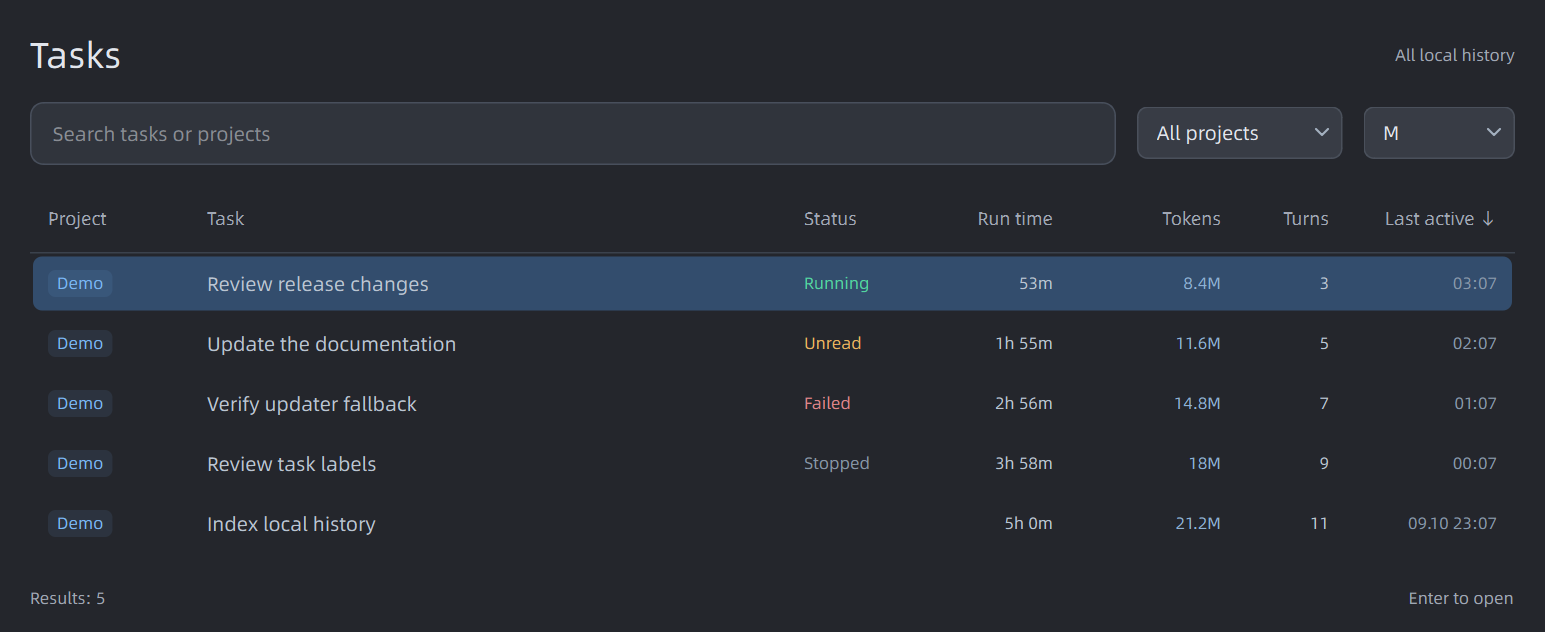
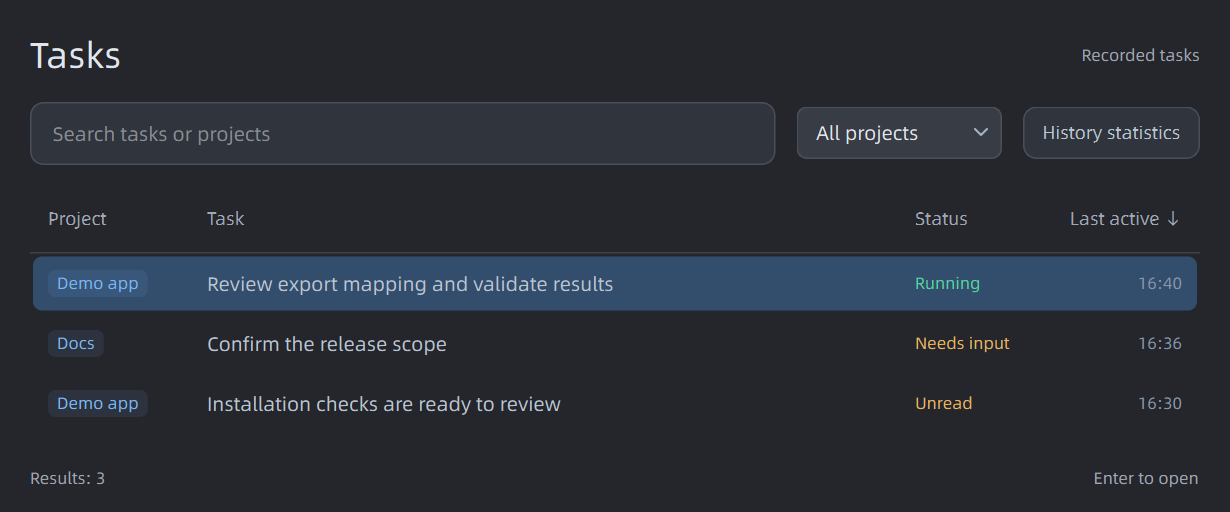
docs(product): document clear quota controls and verified desktop flows
Update all localized guides and synthetic screenshots for separate task controls, progressive history statistics, quota source/freshness context and complete-width placement. Record local regression, upgrade, uninstall/data-preservation and installed-window evidence with explicit hardware and participant-study limits.

Add the portable quota-validity suite to regular CI and provide a ready-to-run usability protocol without claiming participant results.

Spec: docs/specs/product-clarity.md#5-verification-and-delivery

diff --git a/README.md b/README.md
@@ -18,9 +18,9 @@ Requires **Windows 11 x64** and the **Codex desktop app**, installed and signed 
 2. Run the installer, then start the app. Python, Qt, and fonts are included. Administrator access is not required.
 3. Right-click the strip to open Settings. Choose which items to show and whether to start at sign-in.
 
-The strip sits on the left of the primary taskbar. If there is not enough space, open Settings from the system tray. Updates are checked on GitHub; installation starts only when you choose it.
+New installations use **Auto** placement: prefer the primary taskbar and float when there is not enough room. Existing placement preferences are preserved. Right-click either strip or the tray for **Find task…**, **Task status**, Settings and Quit. Updates are checked on GitHub; installation starts only when you choose it.
 
-Choose **Placement → Floating** in Settings to move the capsule away from the taskbar. Drag it to a convenient position; that position is remembered. **Keep on top** is optional, and panels open above or below it to fit the screen. Switch back to **Taskbar** at any time.
+Choose **Status bar placement → Floating** to move the quota/status strip. The optional **Running task strip** is independent: drag it to a convenient position and that position is remembered. **Keep floating windows on top** applies to enabled floating windows; colors and transparency apply to both strips.
 
 **Auto** prefers the primary taskbar and uses a floating capsule when there is not enough room. It waits for stable availability before switching back and avoids automatic overlays over fullscreen foreground apps. **Floating display** can follow primary or pin a display; disconnecting it temporarily uses primary, and reconnecting restores the saved relative position. This does not add secondary-taskbar embedding or claim validation on other Windows versions.
 
@@ -39,17 +39,17 @@ Choose **Placement → Floating** in Settings to move the capsule away from the 
 | Status dot and count | Tasks in that state, with the current or latest turn's duration |
 | Task title | That task in Codex |
 
-Running tasks rotate in the strip. Hovering pauses rotation and scrolls long titles. Main tasks and Side chats have separate counts, states and timers: a running main task can appear alongside an unread side result. Side entries return to their parent task. Stopped and failed tasks have their own indicators.
+Enable **Running task strip** in Indicators to see a separate 420-DIP title carousel. It is off by default for new users; existing display choices are preserved on upgrade. **Task status counts** remains an independent control on the original strip. Hovering pauses task rotation and reveals long titles; empty Running lists hide the title strip. Main/Side markers appear only in live task surfaces; Side entries return to the parent task and do not add duplicate statistics/search rows. Running markers are static; motion is reserved for interactions and deliberate long-title reading.
 
 Settings include English, Simplified Chinese, Japanese, and Spanish UI selection, optional hover-to-open panels, and optional quota rotation. With rotation enabled, all enabled left-side indicators, including the reset countdown, share one fixed-width position.
 
 Capsule colors and background transparency are set manually in Settings. Choose Dark or Light; 0% transparency gives a solid background. Text and ring opacity are unaffected.
 
-The capsule fits its content up to the original maximum width. It reserves room for the longest rotating task, so switching tasks does not make it jump in size.
+The status strip fits the actual enabled labels and counts within the available screen/taskbar space. It does not silently hide selected indicators or change quota-rotation preferences. If complete content cannot fit, task categories remain available in the tray/context menu. The separate task strip keeps a stable width during rotation.
 
 Right-click and choose **Find task…** to search recorded tasks by title or project. Filter to one project, then click a result or use the arrow keys and Enter to return to it in Codex. This filter affects the search window only; quota and strip counts keep their existing scope.
 
-Task search also shows local lifetime **run time, tokens and execution turns**. Click a column heading to sort; click again to reverse it. The first history scan runs in small batches while the window is open, then resumes from a cache. Run time includes waits within a turn and excludes gaps between turns. Turns are execution rounds, not individual messages or tool calls. `≥` marks a known lower bound when records are incomplete.
+Task search defaults to project, title, status and recent activity. Enable **History statistics** to reveal local lifetime **run time, tokens and execution turns**, plus the unit selector. Sorting, filtering, selection and existing caches are preserved. The history scan runs only while this view is visible and statistics are expanded; collapsing it pauses indexing. Run time includes waits within a turn and excludes gaps. Turns are execution rounds. `≥` marks a known lower bound when records are incomplete.
 
 Settings use a sidebar for **Appearance**, **Indicators** and **General**. Placement, theme and display changes apply immediately, including the capsule's width.
 
@@ -67,13 +67,13 @@ An unresolved synchronous `request_user_input` record appears as **Needs input**
 
 ## About the numbers
 
-- Quota percentages come from the account. Tokens come from task logs on this computer. Token totals cannot be converted into an exact quota percentage or subscription cost.
-- Daily quota usage starts at the day's first available reading. Restarting preserves it. Earlier usage is not reconstructed; a reset during the day is handled as a separate interval.
+- Quota percentages come from the account; Token statistics come from this computer. Local cycle/today panels label both scopes explicitly. A quiet **Cached** marker identifies retained readings after a quota failure, with the last successful update in tooltips/details. Expired balances and reset times become unknown across all quota surfaces.
+- **Week left / 5h left** show remaining account quota; **Today used** is observed consumption, not necessarily a complete day. The detail shows the observation start time. Restarting preserves the baseline, earlier usage is not reconstructed, and resets are accumulated as separate intervals.
 - The daily task list includes today's turns. Status panels show the current or latest turn's duration, including time waiting for tools.
 - Historical token totals cover locally recorded tasks. Other devices and temporary side chats without saved usage are excluded.
 - The task catalog includes recorded CLI, VS Code, app-server and CLI execution sources. Newly included records can increase local token totals. Persisted synchronous input requests are observable; live approval routing and unrecorded questions are not fully exposed.
 
-Reset history uses **Scheduled** for an observed natural rollover, **Manual** for a reset confirmed through this tool, and **Official** for other observed recoveries. Official is an inferred category, not a verified statement from OpenAI. Using a reset credit requires confirmation and consumes a real credit.
+Reset history uses **Scheduled** for an observed natural rollover, **Manual** for a reset confirmed through this tool, and **Other recovery** for other observed recoveries. The latter has an unconfirmed source; its stored historical classification is unchanged. Using a reset credit requires confirmation and consumes a real credit.
 
 ## Data and limitations
 

diff --git a/docs/specs/interaction.md b/docs/specs/interaction.md
@@ -2,6 +2,8 @@
 
 新增悬浮显示的几何、拖动与设置约定见[Windows companion](windows-companion.md)。下面涉及任务栏锚点的约束用于Taskbar模式；Floating模式复用相同数据与内容，由屏幕可用区域决定面板方向。
 
+额度有效性、缓存提示、清楚的来源标签、独立开关和渐进历史统计按[产品清晰度](product-clarity.md)执行。当前额度统一排除过期窗口，保留原始历史边界；Today注明当天观测起点，推定恢复显示“其他恢复”。
+
 ## 点击与信息
 
 - 周额度打开既有周期图表；可选5h额度打开独立短周期面板，显示剩余额度、具体恢复时间、本窗口已记录的余额时间曲线。复用30秒采样，切换窗口后重新记录，不补造历史；是否显示按真实300分钟窗口决定。日额度打开Today · Tokens列表，仅保留各任务今日Token，不显示时长。
@@ -20,7 +22,7 @@
 
 悬浮条宽420 DIP，受所在屏幕可用宽度限制，不随标题或轮播伸缩。默认位于原条上方8 DIP并左对齐，空间不足时放下方；原条因任务栏空间不足不可见时，仍可独立显示在屏幕可用区域左下角。复用现有字体、胶囊配色、背景透明度和floating_topmost设置，无外框、不抢焦点；前台全屏时隐藏，恢复后继续显示。原条的摆放模式仅控制原条。
 
-多个任务延续8秒轮播与450ms交接；仅一个任务时不轮播，无进行中任务或关闭show_tasks时隐藏。悬停暂停任务切换，长标题缓慢横向展示；交接动画期间不同时横向滚动。离开后续用已等待时间，不补跳。按下固定当时可见的任务，松开仍在任务点击区且未拖动才跳转；已退出进行中的任务不再响应旧按下目标。临时Side点击仍打开所属父任务。
+多个任务延续8秒轮播与450ms交接；仅一个任务时不轮播，无进行中任务或关闭show_task_strip时隐藏。悬停暂停任务切换，长标题缓慢横向展示；交接动画期间不同时横向滚动。离开后续用已等待时间，不补跳。按下固定当时可见的任务，松开仍在任务点击区且未拖动才跳转；已退出进行中的任务不再响应旧按下目标。临时Side点击仍打开所属父任务。
 
 胶囊内超过系统拖动阈值才移动，拖动完成不打开任务。完成拖动后，将独立位置保存为task_strip_position（屏幕名、可用区域归一化x/y、参考宽度）；不会覆盖原条floating_position。重启恢复，显示器移除回到主屏，分辨率/DPI变化后限制整条在可用区域。共享原Provider快照和150ms检查、33ms动画时钟，不新增采集、线程、鼠标钩子或统计。
 
@@ -30,7 +32,7 @@
 
 设置增加“轮换左侧指标 / Rotate left-side indicators”，保存 rotate_quotas 布尔值，默认关闭。开启时，已开启且可显示的周剩余额度、今日额度消耗、5h剩余额度和重置倒计时共用一个位置，按周、日、5h、重置顺序每8秒切换。无5h窗口跳过，只剩一项不轮换，无候选不占位置。并排模式保持原布局与原文案。
 
-轮换项显示 Week / Today / 5h（中文为周 / 今日 / 5h）与原数值，仍分别表示周剩余、今日消耗和5h剩余；数据缺失保留统一横杠。单槽按当前倒计时的天/小时/分钟格式预留宽度，说明列与数值列之间留3DIP；不提前为尚未出现的更长格式占位。同一格式内所有轮换项共用宽度，圆环位置不变；只在格式或显示开关变化时重新计算。过渡保留旧内容，460ms缓入缓出；文字交叉淡化并作14DIP纵向交接，圆环原位插值颜色和弧长，不清空再出现。点击按当时更清晰的内容确定目标，过渡可从当前进度平滑回到该项，不新增滚动条或分页点。
+轮换项显示 Week left / Today used / 5h left（中文为本周剩余 / 今日已记录 / 5h剩余）与原数值，仍分别表示周剩余、今日消耗和5h剩余；数据缺失保留统一横杠。单槽按当前倒计时的天/小时/分钟格式预留宽度，说明列与数值列之间留3DIP；不提前为尚未出现的更长格式占位。同一格式内所有轮换项共用宽度，圆环位置不变；只在格式或显示开关变化时重新计算。过渡保留旧内容，460ms缓入缓出；文字交叉淡化并作14DIP纵向交接，圆环原位插值颜色和弧长，不清空再出现。点击按当时更清晰的内容确定目标，过渡可从当前进度平滑回到该项，不新增滚动条或分页点。
 
 鼠标进入额度槽、对应面板（包括重置面板）打开、按住按钮、设置/菜单或重置确认显示时暂停轮换；离开后续用已等待的进度，不重新等待完整8秒或立即补跳多项。点击打开按下时对应的面板；悬停模式也使用同一入口，不因自动轮换换成另一面板。候选因开关或实际窗口变化而移除时选择首个可用项；短暂数据读取失败仍遵循保留有效记录规则。
 
@@ -62,7 +64,7 @@
 
 有前后窗口依据的旧Unknown记录按同一规则回算，保留时间与ID；仅时间抖动的旧误报丢弃，没有窗口依据的旧记录不臆造事件事实。发生同一窗口内用量下调时，今日消耗保留此前已观察到的正增量。
 
-重置面板统一英文：Next reset、History、Expires。历史与到期时间各自单列左对齐，来源和默认标识右对齐；始终按该次事件记录的窗口附7d、5h或5h + 7d标记。三次机会直接列出，单个Reset quota按钮独占底部，不与日期同排。分组间用弱分隔线，复用现有字体和功能色，不增加图标、边框或交互层级。
+重置面板使用四语词表：Next reset、History、Expires；推定来源显示Other recovery。历史与到期时间各自单列左对齐，来源和默认标识右对齐；始终按该次事件记录的窗口附7d、5h或5h + 7d标记。三次机会直接列出，单个Reset quota按钮独占底部，不与日期同排。分组间用弱分隔线，复用现有字体和功能色，不增加图标、边框或交互层级。
 
 重置面板以300 DIP为最小宽度，按时间、用量和分类的实际字宽补足空间，与其他面板左边界对齐。日期、用量、来源保持三列，数字列根据来源标签实际字宽定位；按钮随面板宽度收窄，并减少其上方8 DIP空白。其他面板宽度不随之改变。
 

diff --git a/docs/i18n/README.zh-CN.md b/docs/i18n/README.zh-CN.md
@@ -18,9 +18,9 @@
 2. 安装并启动。安装包包含 Python、Qt 和字体，不需要另外配置环境或管理员权限。
 3. 右键状态条打开设置，选择显示项目和是否开机启动。
 
-状态条位于主任务栏左侧。空间不足时，可从系统托盘打开设置。更新从 GitHub 检查，由你选择是否安装。
+新安装默认使用**自动**摆放：优先主任务栏，空间不足时悬浮；升级保留已有位置选择。右键状态条、任务条或托盘，可进入查找任务、任务状态分类、设置和退出。更新从 GitHub 检查，由你选择是否安装。
 
-在设置中选择 **显示位置 → 悬浮窗**，就能把胶囊拖到合适的位置，重启后保留位置。可关闭 **保持置顶**；面板根据屏幕空间向上或向下展开。随时可以切回 **任务栏**。
+设置里的**状态条位置**控制额度与状态数量条。**进行中任务悬浮条**可独立开启、拖动和记忆位置；**悬浮窗口保持置顶**作用于启用的悬浮窗口，配色与透明度共用。
 
 **自动**模式优先使用主任务栏，空间不足时转为悬浮窗，空间稳定恢复后返回，并避让前台全屏应用。**悬浮显示器**可跟随主屏或固定一块屏幕；断开时临时回主屏，重连后恢复原相对位置。目前没有新增副任务栏嵌入，也不因此宣称已验证其他 Windows 版本。
 
@@ -39,7 +39,7 @@
 | 状态圆点与数量 | 该状态的任务，以及当前或最近一轮的耗时 |
 | 任务标题 | 在 Codex 中打开该任务 |
 
-进行中的任务会轮换显示。鼠标移入后暂停轮换，长标题会滚动展开。主任务和侧聊分别计数、显示状态和本轮时长：主任务进行中与侧聊未读可以同时显示。点击侧聊会回到所属主任务，停止和失败也有各自的状态标记。
+新用户默认保留任务状态数量，关闭独立任务悬浮条；升级保留已有显示选择。两者可在显示项中分别开关。任务悬浮条开启后以固定宽度轮播进行中任务，悬停暂停切换并展开长标题，无进行中任务时隐藏。主侧线标记只用于即时任务展示；点击侧聊回父任务，不在统计或搜索中增加重复行。运行标记保持静态，动效只用于操作反馈、切换和主动阅读长标题。
 
 设置中可切换英文、简体中文、日语和西班牙语，也可开启悬停打开面板或额度轮换。轮换时，已开启的本周、今日、5h和重置倒计时共用一个固定宽度位置。
 
@@ -47,7 +47,7 @@
 
 右键选择 **查找任务…**，可按任务名、项目名搜索，并筛选项目；点击结果或用方向键和回车返回 Codex 中的任务。筛选只作用于查找窗口，不改变底栏统计口径。搜索在本地完成，不保存搜索词。
 
-胶囊根据内容收窄，最长保持原来的宽度；按轮播队列中的最长任务预留空间，切换任务不会反复伸缩。目录也包含已记录的CLI执行任务，新纳入的记录可能使本机Token总量增加。
+状态条按实际文案与数量适配可用空间，不再受固定540 DIP上限约束，也不悄悄改变额度轮换设置或隐藏已选指标。完整内容确实放不下时，托盘和右键的任务状态菜单仍可用。任务悬浮条轮播时保持稳定宽度。
 
 ![任务查找](../images/task-search.png)
 
@@ -55,7 +55,7 @@
 
 ## 数据怎么算
 
-查找任务显示本机记录的累计运行时长、Token 和执行轮次，点击表头可切换排序方向。首次整理历史会分批进行并缓存，关闭窗口后暂停；时长包含执行期间的等待，排除轮次之间的空档。轮次不是消息条数或工具调用次数。`≥` 表示记录不完整时的已知下限。
+查找默认展示项目、名称、状态和最近活动。开启**历史统计**后，才展示本机累计运行时长、Token、执行轮次及单位切换。保留搜索、筛选和选择；收起统计或关闭窗口会暂停历史整理，已有缓存保留。时长包括轮内等待、排除轮间空档；轮次不是消息或工具调用次数，`≥`表示已知下限。
 
 设置通过侧栏切换「外观、显示项、常规」。显示位置、配色和显示项立即生效，胶囊宽度也随之调整。「常规」里可开启默认关闭的待回答通知，或复制不含任务名、账号、路径和日志内容的诊断信息。
 
@@ -65,12 +65,12 @@
 
 ![待回答提示（演示数据）](../images/attention.png)
 
-- 额度百分比来自账户，Token 来自本机任务日志。Token 总量不能准确换算为额度百分比或订阅费用。
-- 今日额度消耗从当天第一条可用记录开始计算，重启保留。之前的用量不补算；当天发生重置时分段累计。
+- 百分比来自账户，Token 来自本机记录，详情会分别标明来源，不能精确互换。读取失败时用「上次记录」标记保留值，并显示最后更新时间；过期余额与重置时间在各处统一显示未知。
+- 本周与5h显示剩余，今日显示已记录消耗，并在详情标明当天观测起点。它可能不是完整全天；重启保留基线，不补算缺失区间，跨重置分段累计。
 - 日列表统计今天的多轮任务用量；状态列表显示当前或最近一轮的耗时，包含工具等待时间。
 - 历史 Token 只统计本机已记录的任务，不包含其他设备，以及没有保存用量的临时侧边聊天。
 
-重置历史中，Scheduled 表示观察到自然到期，Manual 表示通过本工具确认成功的手动重置，其他已观察到的恢复归为 Official。Official 是推定分类，不代表已核实官方来源。使用重置机会需要二次确认，会消耗真实机会。
+重置历史区分自然到期、通过本工具确认的手动重置与「其他恢复」。其他恢复来源未确认，不再直接归因为官方；已有历史记录的存储分类保留。使用重置机会仍需二次确认，会消耗真实机会。
 
 ## 数据保存与限制
 

diff --git a/docs/qa/product-clarity-usability.md b/docs/qa/product-clarity-usability.md
@@ -1,0 +1,39 @@
+# Product clarity usability study
+
+Status: protocol ready; participants have not been recruited or observed. Automated fixtures and agent reviews are not participant results.
+
+## Purpose
+
+Evaluate whether the companion helps unfamiliar Codex users interpret quota, notice required input and return to the intended task with tolerable desktop obstruction. This is formative research, not a market-size or retention study.
+
+Recruit five willing people who use Codex but have not used this companion. Record their usual number of parallel tasks, preferred display size/scaling and whether they normally keep Codex visible. Obtain consent for observation and any recording. Use sample task names and accounts; never ask participants to spend a real reset credit or disclose conversation contents. Keep identifying information outside Git.
+
+## Session
+
+Allow about 20 minutes per person. Explain that the interface is being tested, not the participant. Begin with the fresh-install defaults, then use a safe prepared sample state. Do not explain labels, click targets or the statistics toggle before the relevant task. Permit stopping at any time.
+
+1. **Interpret capacity and freshness.** Show remaining Week/5h quota, observed Today consumption and an afternoon observation start. Ask what each number represents and what earlier usage is covered. Then show a failed quota refresh and an expired 5h panel; ask whether the displayed data is current and what they would trust.
+2. **Respond to a task.** Present several Running tasks and one Needs input item. Ask which task requires them now and have them return to it. Use mocked navigation or their own explicitly authorized test task, with no actual approval or reset operation.
+3. **Recover an older task.** Give a project and partial task title. Ask them to find and open the correct record. Next ask for its available historical Token total, observing whether they discover History statistics without being told where it is.
+4. **Reduce desktop obstruction.** Ask them to hide the Running title strip while keeping status counts. Reopen and reposition the title strip, then hide it again. Check whether placement and topmost scope are understood.
+
+After the tasks, compare the one-strip default with the optional title strip in the same work context. Vary which arrangement is tried first across participants. Ask what they would leave enabled during ordinary work and why. A preference is not an efficiency result.
+
+## Record for each task
+
+| Anonymous participant | Task | Completed independently / with help / failed | Time | First interpretation | Errors or wrong destination | Assistance | Comments |
+| --- | --- | --- | --- | --- | --- | --- | --- |
+| Not yet observed | — | — | — | — | — | — | — |
+
+Record observation-start and freshness misunderstandings separately from navigation errors. Record accidental openings, repeated hovering while waiting for a title, obstruction of another control, and whether the participant disables the title strip. Do not infer success from an attractive screenshot or a verbal compliment.
+
+## Decisions after observations
+
+- Repeated incorrect interpretation of remaining/observed consumption, cached values or inferred reset sources requires a wording/placement revision before stronger product claims.
+- Difficulty finding the action-needed task takes priority over decorative changes or additional statistics.
+- Prefer the least obstructive default that preserves successful state recognition. Do not reverse existing users' saved presentation choices based on five sessions.
+- Inspect failures individually before aggregating time or success counts; report assistance and incomplete sessions. This small study does not establish population percentages.
+
+## Current delivery boundary
+
+The engineering release validates calculations, interaction contracts, installation and controlled layouts. This study remains pending until real willing participants are available. No invitation has been sent, no telemetry added and no participant results claimed.

diff --git a/docs/specs/windows-companion.md b/docs/specs/windows-companion.md
@@ -2,7 +2,7 @@
 
 ## Scope
 
-Extend the existing Windows presentation with an optional floating capsule and reduce unnecessary background work. Keep one Provider and the existing data directory. The quota/status strip retains its placement modes; the running task carousel is now a separate floating strip as specified in [interaction](interaction.md#进行中任务独立悬浮条). Default status placement remains Taskbar; upgrading preserves existing preferences. This milestone does not claim macOS, Linux or untested Windows support.
+Extend the existing Windows presentation with an optional floating capsule and reduce unnecessary background work. Keep one Provider and the existing data directory. The quota/status strip retains its placement modes; the running task carousel is a separately controlled floating strip as specified in [product clarity](product-clarity.md#2-independent-windows-and-defaults). Fresh settings use Auto and leave the title strip off; upgrading preserves existing placement and presentation choices. This milestone does not claim macOS, Linux or untested Windows support.
 
 ## Performance
 
@@ -16,11 +16,11 @@ Validate with repeatable idle/active render counts and CPU samples using control
 
 Settings offer Taskbar / Floating, plus Keep on top for Floating. Switch immediately without restarting collection. Reuse manual theme/transparency, indicators, tasks and panels. Right-click retains Settings and Quit. The tray remains available if all indicators are disabled.
 
-The floating capsule is 30 DIP high, with a maximum width of 540 DIP constrained by the screen. Content sizing is specified below. It is independent of taskbar availability and alignment. Drag anywhere inside the capsule; movement must exceed the system drag threshold before being a drag. A completed drag never opens a panel or task. Preserve normal click targets and outside dismissal. Transparent rounded corners stay outside the target.
+The floating status capsule is 30 DIP high and fits its complete content within the available screen. Content sizing is specified below. It is independent of taskbar availability and alignment. Drag anywhere inside the capsule; movement must exceed the system drag threshold before being a drag. A completed drag never opens a panel or task. Preserve normal click targets and outside dismissal. Transparent rounded corners stay outside the target.
 
 ### Adaptive capsule width
 
-Both status-strip placements fit the enabled metrics and nonempty status counts, with balanced end padding. Keep the existing taskbar space limit and floating 540 DIP limit. Task names no longer affect status-strip width; the separate task strip keeps a stable 420 DIP width constrained by its display. Retain the quota rotation slot's existing stable width. Long task titles still elide and scroll on hover. No extra setting is needed.
+Both status-strip placements measure the enabled metrics and nonempty status counts with balanced end padding. Respect actual taskbar/system-button and screen boundaries instead of the old fixed 540 DIP maximum. Auto placement falls back when full content cannot fit; an explicit placement choice remains preserved. If even floating content cannot fit, standard tray status actions remain available. Task names no longer affect status-strip width; the separate task strip keeps a stable 420 DIP width constrained by its display. Retain the quota rotation slot's stable width; do not silently enable rotation to fit. Long task titles still elide and scroll on hover.
 
 Keep the left edge and ring positions fixed when content changes. Defer background-driven shrinking while hovering, pressing, dragging, or a panel/menu is open. A settings window alone never freezes geometry: explicit display, rotation, language and placement changes immediately recompute the capsule, including when other interaction guards are present. Opening a task panel continues to use its own readable minimum width even when the capsule is short.
 

diff --git a/docs/specs/task-statistics.md b/docs/specs/task-statistics.md
@@ -2,7 +2,7 @@
 
 ## Task statistics
 
-The task finder adds sortable Run time, Tokens and Turns columns alongside project, task, known status and activity. Default remains latest activity first. Header clicks reverse order; missing values sort last in either direction. Sorting uses numeric values, never formatted strings, and preserves selection by task ID. Search and project filtering remain local. Token units reuse the existing M / 100M preference and appear in each value.
+The task finder defaults to project, task, known status and activity. The optional History statistics control reveals sortable Run time, Tokens and Turns columns and the existing M / 100M selector; its explicit choice is saved. Default order remains latest activity first. Header clicks reverse order; missing values sort last in either direction. Sorting uses numeric values, never formatted strings, and preserves selection by task ID. Hiding a metric sort column restores Last active descending. Search and project filtering remain local. See [product clarity](product-clarity.md#3-find-tasks-first-disclose-statistics).
 
 Totals mean all available local records for that task, not account-wide or cross-device totals. Tokens sum nonnegative cumulative-counter deltas, including cache inputs already in total_tokens; counter resets start another segment. Forked tasks exclude inherited events before creation while retaining a pre-creation token baseline. When that baseline is missing, omit the ambiguous first counter and show a lower bound; round displayed lower bounds down, with the exact known count in the tooltip. Turns counts distinct execution turns with a start record, not tool calls or individual assistant messages. Run time sums paired start/end intervals plus the currently verified running interval, excluding gaps between rounds. Incomplete lifecycle records show a lower bound, not invented hours. Unsaved side chats cannot contribute lifetime totals.
 
@@ -12,7 +12,7 @@ During indexing, expose already observed aggregates as lower bounds rather than 
 
 ## Settings
 
-Replace the long ungrouped form with a compact settings window organized into Appearance, Indicators, and General. Reuse Qt and existing fonts/colors, with aligned rows, subtle group surfaces and clear switch states. Position/theme options remain immediate; show topmost only for floating mode. Keep language, startup and update controls together in General. Preserve every existing preference and callback; no new account actions or telemetry. Layout must fit shorter screens through scrolling, and all four languages must remain readable.
+Settings use Appearance, Indicators, and General, with aligned rows, subtle group surfaces and clear switch states. Position/theme options remain immediate; show the shared topmost control whenever either floating surface is enabled. The status counts and Running task strip have independent controls. Keep language, startup and update controls together in General. Preserve existing preferences through the migration defined in product clarity; no new account actions or telemetry. Layout must fit shorter screens through scrolling, and all four languages must remain readable.
 
 Setting captions and row whitespace are not toggle targets. Only the separate right-hand switch changes a boolean setting on pointer release inside the switch. Pressing a caption then releasing on a switch, or dragging out of a pressed switch, must not change a preference. Keyboard Tab and Space remain supported; the focus cue is confined to the switch and appears for keyboard interaction, never as a selected-row outline after mouse clicks. Scrolling over collapsed choices, sliders or tabs must not alter settings or switch pages. Updates have no implicit dialog-default action.
 

diff --git a/docs/qa/product-clarity-release.md b/docs/qa/product-clarity-release.md
@@ -1,0 +1,28 @@
+# 0.9.0 verification
+
+Contract: [product clarity and attention](../specs/product-clarity.md).
+
+## Automated and controlled evidence
+
+- Full Windows desktop suite: 323 tests, successful with one offscreen-only suite skipped by design. Its four complete widget journeys passed in a separate `QT_QPA_PLATFORM=offscreen` process.
+- Shared UI fixtures use an isolated temporary runtime. A full test run preserved the live preferences file hash.
+- Expiry checks cover successful/failed quota reads, raw-snapshot preservation, an already-open 5h panel, unknown reset times, observed-day boundaries and known 5h capability. No real reset credits were consumed.
+- Independent window controls preserve existing choices and positions; fresh settings use Auto and leave the Running strip disabled. The optional history view preserves search/selection, resets hidden metric sorting and pauses indexing.
+- Four-language renders of quota panels, settings, simple/expanded task search and the independent task strip were inspected. The Spanish placement label wraps at constrained settings widths. Long quota labels are measured without the former 540 DIP ceiling.
+- Static Running tasks do not keep the shared paint timer active. Direct dragging, interrupted transitions, hover-only long-title reading and reduced-motion behavior retain focused coverage.
+- Public README images use only synthetic tasks and current Qt rendering. No personal screenshots, accounts or history are included in Git.
+
+## Windows installation
+
+- Built the versioned package with `scripts/package.ps1` and the locally available Inno compiler, retaining build PATH isolation and the public bootstrap.
+- Upgraded the local installation to 0.9.0. The installed executable matched the build; existing preference values and bundled assets were preserved. Normal exit/relaunch restored visible windows without changing foreground focus.
+- Inspected the real installed quota/status and Running windows. Standard system `Win32_StartupCommand` and `StdRegProv` showed the product's actual startup path and uninstall version 0.9.0. The bootstrap left no temporary installation task or extracted setup directory.
+- Ran the installed uninstaller silently after normal app exit: return code 0, installed executable removed, and hashes of the existing settings, quota history, reset history, statistics cache and side-chat links preserved. Reinstalled the same 0.9.0 package successfully and returned the app to normal operation.
+
+## Limits
+
+Real pointer manipulation, mixed-DPI multi-monitor hardware, a subsequent Windows sign-in and screen-reader use were not exercised in this batch. Their controlled/native/unit checks are not presented as hardware or accessibility certification. State coverage remains limited to the Codex metadata already supported.
+
+The [five-participant usability protocol](product-clarity-usability.md) is ready. No real participant sessions have occurred, and this release does not claim validated productivity, retention or universally preferred defaults.
+
+Public publication and CI are verified against the release tag after the versioned assets are uploaded; local packaging alone does not imply a published update.

diff --git a/docs/roadmap.md b/docs/roadmap.md
@@ -4,6 +4,8 @@ Help people notice what their AI tasks need and return to the right task, with q
 
 ## Current delivery order
 
+The 0.9.0 product-clarity batch refines the existing Windows scope: shared quota validity and source context, independent task-strip control, quiet Running presentation and optional history statistics. Engineering verification is recorded in [0.9.0 verification](qa/product-clarity-release.md). Real user validation remains pending under the [usability protocol](qa/product-clarity-usability.md); delivered interface work is not evidence of fewer missed tasks.
+
 The first-level goals below are governed by the concrete second-level checklist in [product quality execution](plans/product-quality.md). Completing a single item is not the end of the work. Reconcile unfinished items before reporting completion or beginning another milestone.
 
 1. **Desktop experience, attention and product review — delivered.** 0.7.0 and the subsequent local selection fix are recorded in the execution checklist.

diff --git a/docs/specs/product-clarity.md b/docs/specs/product-clarity.md
@@ -54,10 +54,10 @@ Prepare a ready-to-run, consent-based usability protocol for five unfamiliar Cod
 
 ## Execution status
 
-- [ ] Quota validity and observation metadata
-- [ ] Quota meaning, freshness and reset-source presentation
-- [ ] Independent controls, accessible state entry and quiet motion
-- [ ] Basic finder with optional historical statistics
-- [ ] Integrated tests and visual verification
+- [x] Quota validity and observation metadata
+- [x] Quota meaning, freshness and reset-source presentation
+- [x] Independent controls, accessible state entry and quiet motion
+- [x] Basic finder with optional historical statistics
+- [x] Integrated tests and visual verification
 - [ ] Upgrade/install verification, documentation and release
-- [ ] Usability protocol ready; real participant study reported separately
+- [x] Usability protocol ready; real participant study reported separately
